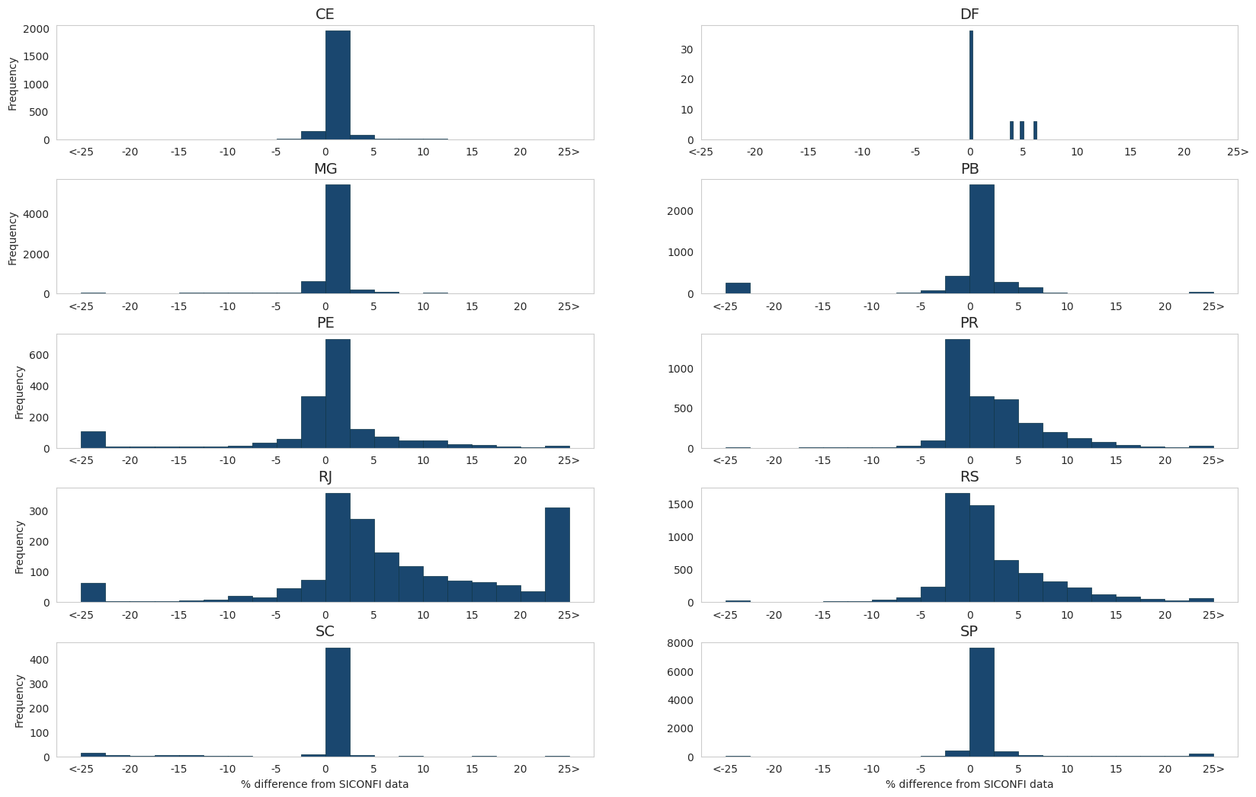
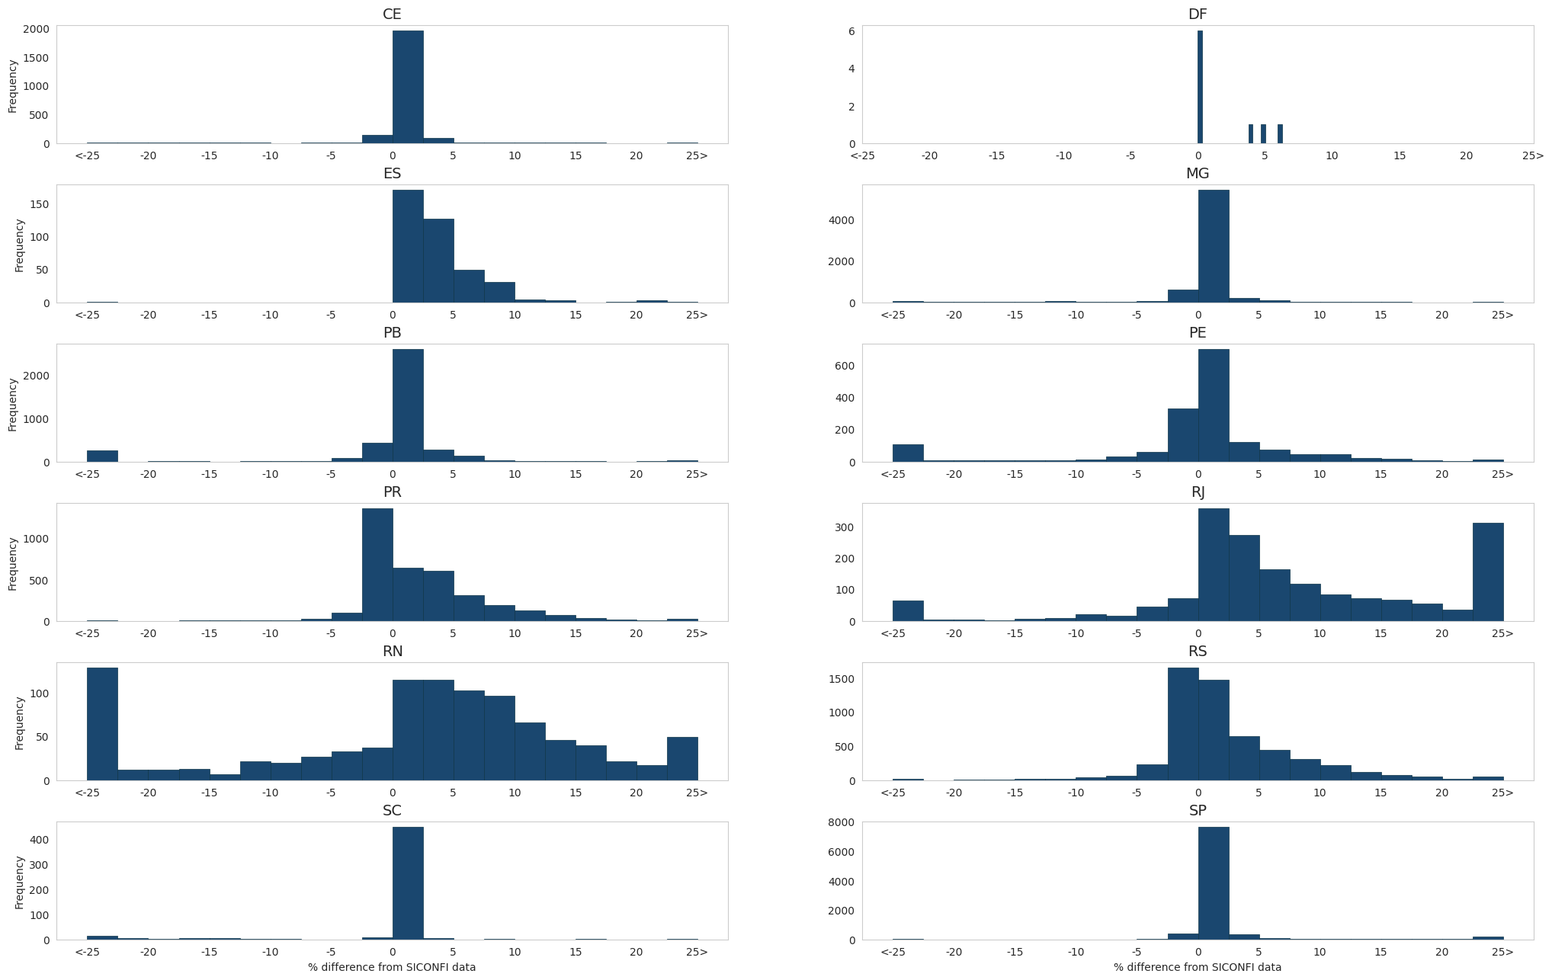
[update] original_source docs

diff --git a/site/index.html b/site/index.html
@@ -321,6 +321,24 @@
 </li>
       
         <li class="md-nav__item">
+  <a href="#temporal-coverage" class="md-nav__link">
+    <span class="md-ellipsis">
+      Temporal coverage
+    </span>
+  </a>
+  
+</li>
+      
+        <li class="md-nav__item">
+  <a href="#institutional-context" class="md-nav__link">
+    <span class="md-ellipsis">
+      Institutional context
+    </span>
+  </a>
+  
+</li>
+      
+        <li class="md-nav__item">
   <a href="#acessing-database" class="md-nav__link">
     <span class="md-ellipsis">
       Acessing database
@@ -510,6 +528,24 @@
 </li>
       
         <li class="md-nav__item">
+  <a href="#temporal-coverage" class="md-nav__link">
+    <span class="md-ellipsis">
+      Temporal coverage
+    </span>
+  </a>
+  
+</li>
+      
+        <li class="md-nav__item">
+  <a href="#institutional-context" class="md-nav__link">
+    <span class="md-ellipsis">
+      Institutional context
+    </span>
+  </a>
+  
+</li>
+      
+        <li class="md-nav__item">
   <a href="#acessing-database" class="md-nav__link">
     <span class="md-ellipsis">
       Acessing database
@@ -535,8 +571,9 @@
 
 <h1 id="mides-new-data-and-facts-from-local-procurement-and-budget-execution-in-brazil"><strong>MiDES: New Data and Facts from Local Procurement and Budget Execution in Brazil</strong></h1>
 <h2 id="overview">Overview</h2>
-<p>The dataframe shows the full process of creation and understanding about our data. We collect from several Brazilian states data provided by State Audit Courts (<em>TCEs</em> in Portuguese) about budget execution and procurements. Initially, we show this enforcement in <a href="https://documents.worldbank.org/en/publication/documents-reports/documentdetail/099456511072320917/idu0577a4ea10ff8504db6089400548fa91b30a3">working paper</a> published by the World Bank with seven states. Here, we publish updates about our dataset with more States. We provide the original source, processing codes, queries, and other analyses.</p>
-<p>Our dataset on municipal procurement and budget execution currently covers ten of Brazil's twenty-seven states, highlighted in Figure 1: Ceará (CE), Distrito Federal (DF), Minas Gerais (MG), Paraíba (PB), Pernambuco (PE), Paraná (PR), Rio de Janeiro (RJ), Rio Grande do Sul (RS), Santa Catarina (SC)and São Paulo (SP). These are large states that cover a substantial share of the total number of municipalities (60%), population (67%), and GDP (76%) of the country according to 2021 data. Notably, our dataset only covers states in the South, Southeast and Northeast regions - data from the states in the North and Center-West regions are currently not available[^1].</p>
+<p>We introduce a new dataset on municipal public finance in Brazil called MiDES (<em>Microdados de Despesas de Entes Subnacionais</em>[^1]) that allows users to answer several fiscal questions. We collect, clean, and harmonize microdata on public procurement and budget execution that covers more than half of the total municipalities of Brazil and represents over 40\% of the country's population.  </p>
+<p>The repository shows the full process of creation and understanding about our data. We collect from several Brazilian states data provided by State Audit Courts (<em>TCEs</em> in Portuguese) about budget execution and procurements. Initially, we show this enforcement in <a href="https://documents.worldbank.org/en/publication/documents-reports/documentdetail/099456511072320917/idu0577a4ea10ff8504db6089400548fa91b30a3">working paper</a> published by the World Bank with seven states. Here, we publish updates about our dataset with more States. We provide the original source, processing codes, queries, and other analyses.</p>
+<p>Our dataset on municipal budget execution currently cover ten of Brazil's twenty-seven states, highlighted in Figure 1: Ceará (CE), Distrito Federal (DF), Minas Gerais (MG), Paraíba (PB), Pernambuco (PE), Paraná (PR), Rio de Janeiro (RJ), Rio Grande do Sul (RS), Santa Catarina (SC)and São Paulo (SP). These are large states that cover a substantial share of the total number of municipalities (60%), population (67%), and GDP (76%) of the country according to 2021 data. Notably, our dataset only covers states in the South, Southeast and Northeast regions - data from the states in the North and Center-West regions are currently not available[^2]. Our procurement dataset allows users to see information on specific tenders, such as the number, reserve price, and description of items being sold, the number of participants in competitive tenders, and the identity of participants and winning parties covering six states: CE, MG, PB, PE, PR and RS. On the budget execution side, the data includes information on each commitment, verification (an important step in the budget spending when buyers recognize that a good or service was delivered), and payments, again allowing users to see the identity of payees and the amount and dates of each step of the budget execution. In particular, we can compute the time to pay a particular transaction by using the time elapsed between the verification and payment stages.</p>
 <!-- Query Proportion
 WITH sample AS (
   SELECT
@@ -564,14 +601,160 @@ WHERE pop.ano = 2021 AND gdp.ano = 2021
  -->
 
 <p><img alt="Figure1" src="images/MapChart_Map.png" /></p>
-<p>We provide further details on the geographical and temporal coverage of the dataset in Table 1. Starting with geographical coverage, our budget execution tables (commitment, verification, and payment) are available for all ten states. The procurement data are less comprehensive: the dataset currently includes no procurement data for SP, and the data for PB and PE include information on tenders and participants, but not on the more disaggregated level of items. In terms of temporal coverage, most of our budget execution data starts in the early- to mid-2000s, with the exception of PE (2012), PR (2013), and MG (2014), and currently runs until 2021. Once again, data on procurement is less comprehensive and, with the exception of CE (2009-2021), starts in the mid-2010s.</p>
+<h2 id="temporal-coverage">Temporal coverage</h2>
+<p>We provide further details on the geographical and temporal coverage of the dataset in Table 1. Starting with geographical coverage, our budget execution tables (commitment, verification, and payment) are available for all ten states. The procurement data are less comprehensive: the dataset currently includes no procurement data for SP, and the data for PB and PE include information on tenders and participants, but not on the more disaggregated level of items. We are working currently in SC raw data. In terms of temporal coverage, most of our budget execution data starts in the early- to mid-2000s, with the exception of PE (2012), PR (2013), and MG (2014), and currently runs until 2021. Once again, data on procurement is less comprehensive and, with the exception of CE (2009-2021), starts in the mid-2010s.</p>
+<table>
+<thead>
+<tr>
+<th>State</th>
+<th># municipalities</th>
+<th>Commitment</th>
+<th>Verification</th>
+<th>Payments</th>
+<th>Temporal Coverage Budget Execution</th>
+<th>Tender</th>
+<th>Tender Item</th>
+<th>Tender Participants</th>
+<th>Temporal Coverage Procurement</th>
+</tr>
+</thead>
+<tbody>
+<tr>
+<td>CE</td>
+<td>184</td>
+<td>✓</td>
+<td>✓</td>
+<td>✓</td>
+<td>2009-2021</td>
+<td>✓</td>
+<td>✓</td>
+<td>✓</td>
+<td>2009-2021</td>
+</tr>
+<tr>
+<td>DF</td>
+<td>1</td>
+<td>✓</td>
+<td>✓</td>
+<td>✓</td>
+<td>2009-2023</td>
+<td></td>
+<td></td>
+<td></td>
+<td></td>
+</tr>
+<tr>
+<td>MG</td>
+<td>853</td>
+<td>✓</td>
+<td>✓</td>
+<td>✓</td>
+<td>2014-2021</td>
+<td>✓</td>
+<td>✓</td>
+<td>✓</td>
+<td>2014-2021</td>
+</tr>
+<tr>
+<td>PB</td>
+<td>223</td>
+<td>✓</td>
+<td>✓</td>
+<td>✓</td>
+<td>2014-2021</td>
+<td>✓</td>
+<td></td>
+<td>✓</td>
+<td>2014-2021</td>
+</tr>
+<tr>
+<td>PE</td>
+<td>185</td>
+<td>✓</td>
+<td>✓</td>
+<td>✓</td>
+<td>2012-2021</td>
+<td>✓</td>
+<td></td>
+<td>✓</td>
+<td>2012-2021</td>
+</tr>
+<tr>
+<td>PR</td>
+<td>399</td>
+<td>✓</td>
+<td>✓</td>
+<td>✓</td>
+<td>2013-2021</td>
+<td>✓</td>
+<td>✓</td>
+<td>✓</td>
+<td>2013-2021</td>
+</tr>
+<tr>
+<td>RJ</td>
+<td>92</td>
+<td>✓</td>
+<td>✓</td>
+<td>✓</td>
+<td>2002-2022</td>
+<td></td>
+<td></td>
+<td></td>
+<td></td>
+</tr>
+<tr>
+<td>RS</td>
+<td>497</td>
+<td>✓</td>
+<td>✓</td>
+<td>✓</td>
+<td>2016-2021</td>
+<td>✓</td>
+<td>✓</td>
+<td>✓</td>
+<td>2016-2021</td>
+</tr>
+<tr>
+<td>SC</td>
+<td>276</td>
+<td>✓</td>
+<td>✓</td>
+<td>✓</td>
+<td>2021-2024</td>
+<td></td>
+<td></td>
+<td></td>
+<td></td>
+</tr>
+<tr>
+<td>SP</td>
+<td>645</td>
+<td>✓</td>
+<td>✓</td>
+<td>✓</td>
+<td>2008-2021</td>
+<td></td>
+<td></td>
+<td></td>
+<td></td>
+</tr>
+</tbody>
+</table>
+<h2 id="institutional-context">Institutional context</h2>
+<p>The last decades have seen a remarkable expansion in the number of subnational units across the world and their roles in providing public services (Gadenne and Singhal, 2014; Grossman and Lewis, 2014; Dahis and Szerman, 2023). As their role in service provision increased, so did their economic relevance - in Brazil, municipal procurement was equivalent to approximately 3% of GDP between 2002 and 2019, or about 25%-30% of total purchases by all levels of government - federal, state, and municipal (Thorstensen and Giesteira, 2021). </p>
+<p>Data on local governments are often only available at an aggregate level, e.g. the total amount of purchases of goods and services, the total amount spent on health services, and the total amount of accrued liabilities. Consequently, many simple yet important questions related to the public finances of these units remain unanswered. Which are the suppliers of local governments, and what are their characteristics (e.g., size, location)? What is the share of purchases that happen through competitive tenders versus non-competitive methods? When competitive auctions take place, what is the degree of competition?</p>
+<p>Another crucial dimension of local governments' finances is how they execute their budgets. While aggregate commitment and spending amounts are easier to come by, we know little about the details of the budget execution. For instance, how long does it take to pay suppliers after deliveries are recognized? Is there a large variability in the payment timeliness across purchases within the same government? Do governments treat suppliers equally regarding payment timeliness? Answers to these questions can shed new light on the effectiveness of local governments and on their interaction with other economic agents. Similarly, when facing liquidity constraints, do governments prioritize the payment of some government functions at the expense of others? Payment delays impose several costs on suppliers and might affect the provision of public goods (Flynn and Pessoa, 2014). The importance of this issue is reflected in several recent regulations and initiatives that governments implemented in an attempt to shorten payment terms[^2]. Yet, the scarcity of granular data on the stages of the budget execution renders the answers to these questions elusive[^3].</p>
 <h2 id="acessing-database">Acessing database</h2>
 <p>The database is hosted in <a href="https://basedosdados.org/dataset/d3874769-bcbd-4ece-a38a-157ba1021514?table=14c5d05b-9830-4710-b7ac-7e0ca1bf9d8b">BasedosDados</a>. For access database in BigQuery, you can follow this <a href="https://basedosdados.github.io/mais/access_data_bq/">steps</a> to create a personal project and create your queries. The most simple query is</p>
 <p><div class="highlight"><pre><span></span><code><span class="k">SELECT</span><span class="w"> </span><span class="o">*</span><span class="w"> </span><span class="k">FROM</span><span class="w"> </span><span class="o">`</span><span class="n">basedosdados</span><span class="p">.</span><span class="n">world_wb_mides</span><span class="p">.</span><span class="n">empenho</span><span class="o">`</span><span class="w"> </span><span class="k">LIMIT</span><span class="w"> </span><span class="mi">100</span>
 </code></pre></div>
 The output is a hundred observations about commitments.</p>
-<p><Footnotes>
-[^1]: Municipalities that are in our sample are slightly richer and more educated than those that are not. In 2019, the average GDP per capita (literacy rate) in our sample was 26.8 thousand BRL (87.7\%), while in the municipalities that are not in our sample it was 22 thousand BRL (82.5\%). Population size, however, does not differ across the samples (37.7 thousand inhabitants in both)</p>
+<p><Footnotes></p>
+<p>[^1]: The English translation of <em>Microdados de Despesas de Entes Subnacionais</em> is Subnational Entities' Expenditure Microdata.</p>
+<p>[^1]: Municipalities that are in our sample are slightly richer and more educated than those that are not. In 2019, the average GDP per capita (literacy rate) in our sample was 26.8 thousand BRL (87.7\%), while in the municipalities that are not in our sample it was 22 thousand BRL (82.5\%). Population size, however, does not differ across the samples (37.7 thousand inhabitants in both)</p>
+<p>[^2]: Examples include the QuickPay initiative, launched in 2011 in the United States; Regulation 113 of the Public Contracts Regulations, passed in 2015 in the United Kingdom; and the introduction of the Centralized Payment Platform (PPC) in 2020 in Chile.</p>
+<p>[^3]: According to Potter et al. (1999): "For the fiscal economist seeking to monitor budget execution, choosing which stage(s) of the expenditure management procedure to monitor is often constrained by information availability. In principle, the data given at the verification stage may be particularly relevant because they measure the actual liability of the public entity and thus the accrued account liability. For example, if bills are verified promptly when they arrive, it allows a good measure of the potential arrears, where strict cash limits constrain the amounts available to make payments. But such information is rarely available."</p>
 
 
 

diff --git a/site/budget_execution/index.html b/site/budget_execution/index.html
@@ -576,7 +576,7 @@
 <p>In the <em>verification</em> table, observations are verifications by some agency in a given municipality, which are always linked to a specific commitment. The key information available for each verification is the date when they happen, the initial value verified, any adjustments to the original value and the final value. One commitment might generate one or more verifications, so each verification is uniquely identified by the variable $id_liquidacao_bd$ and can be connected to commitments by the variable $id_empenho_bd$.</p>
 <p>Finally, for the <em>payment</em> table, each observation is a payment made to a specific entity. Payments can often (but not always) be linked back to a specific verification. The key information available in the payments table is the date of payment and values. The dataset also includes variables with the names and "document number" of payees - these are often unique national identifiers for individuals (CPF) and firms (CNPJ) but are not available for all payments or municipalities. Again, one verification event can lead to one or multiple payments, so payments are uniquely identified by the variable $id_pagamento_bd$ and can be linked back to verification events by $id_liquidacao_bd$ and to commitments by $id_empenho_bd$.</p>
 <h3 id="descriptive-statistics">Descriptive statistics</h3>
-<p>Statistics for the budget execution dataset are presented in \autoref{tab:descriptive_budget}. Our budget execution dataset includes over 880 million observations - over 250 million commitments, around 300 million verifications and over 300 million payments. For all three stages of the budget execution, we present the total number of observations and the total number of <em>distinct</em> events - in some cases, we are unable to assess whether two commitment observations, for example, refer to the same commitment or not. In those cases, we set our respective identifier variable to missing to flag to users that we are unsure whether these are unique events that can be tracked across datasets. Using the budget classification discussed previously, we estimate that between 25%-35% of total budget commitment events are related to the procurement of goods and materials - this is a sample we exploit in more detail in the coming Sections. We also show that for an overwhelming proportion of commitments values are non-zero and can be matched to some verification and payment - allowing us to track the entire cycle of budget execution. We also highlight that our dataset currently encompasses over 3.5 trillion BRL in payments (in 2021 prices) or the equivalent of 38% of GDP in 2021, made to over 9 million different unique agents (identified by national tax IDs).</p>
+<p>Statistics for the budget execution dataset are presented in Tabela 1. Our budget execution dataset includes over 880 million observations - over 250 million commitments, around 300 million verifications and over 300 million payments. For all three stages of the budget execution, we present the total number of observations and the total number of <em>distinct</em> events - in some cases, we are unable to assess whether two commitment observations, for example, refer to the same commitment or not. In those cases, we set our respective identifier variable to missing to flag to users that we are unsure whether these are unique events that can be tracked across datasets. Using the budget classification discussed previously, we estimate that between 25%-35% of total budget commitment events are related to the procurement of goods and materials - this is a sample we exploit in more detail in the coming Sections. We also show that for an overwhelming proportion of commitments values are non-zero and can be matched to some verification and payment - allowing us to track the entire cycle of budget execution. We also highlight that our dataset currently encompasses over 3.5 trillion BRL in payments (in 2021 prices) or the equivalent of 38% of GDP in 2021, made to over 9 million different unique agents (identified by national tax IDs).</p>
 <table>
 <thead>
 <tr>

diff --git a/docs/original_source.md b/docs/original_source.md
@@ -1,0 +1,82 @@
+# Original Sources
+
+This documentation contains information about the main files and sources used in the construction of public procurement and budget execution tables. Additionally, we list open questions and limitations encountered throughout the project by state.
+
+
+## DF - Distrito Federal
+![TCE-DF](images/original_source_df.png)
+Available in https://www.transparencia.df.gov.br/#/downloads#des from 2009. The State Court offers the data for download in the click-point model. In addition, offering a visualization panel with the main results of expenses and revenues in the municipality of Brasília. 
+
+We don't have **bid** data yet. The **commitment** table is the result of files: *Despesa_Empenho*, *Despesa_Empenho_Descricao*, and *Despesa_Empenho_Subelement* which together classify completely the observation. As the files *Despesa_Nota_Lancamento_Evento* and *Despesa_Nota_Lancamento_x_Nota_Empenho* show the required information about **verification**. This last file contains the identification between commitment and verification observations. The payment table is based on *Despesa_Pagamento*. Some observations are broken because of the original data format. 
+
+## CE - Ceará
+![TCE-CE](images/original_source_ce.png)
+Available in https://api.tce.ce.gov.br/ from 2009. The State Court offers an API to get the data. 
+
+The **bid** from files (*licitacoes*) bring together general information about competitive bids and exemptions/non-enforceability. For the **bid-iten** table we merge *itens_licitacoes* and *licitantes* files. The first contains information about the bid items and the second about the winners. For the **bid-participant** we remove duplicates at the id, municipality and year level, e.g., participants who win more than one item in the same bid. The construction of `id_licitacao_bd` not generate unique id (around 0.87% are duplicated) analyzing the relevant variables as municipality, entity, year. For example, we have a bid with same number, description and values (described better [here](https://municipios-transparencia.tce.ce.gov.br/index.php/municipios/licitacoes/mun/031/versao/2019)), but directioned to different entities:  
+FMS04.03.002/19  
+PMB04.03.002/19  
+FMA04.03.002/19  
+FME04.03.002/19
+These cases give reasons to believe that we have the same bid, altought we exclude here the observations duplicated. 
+
+In **commitment** table we use *notas_empenhos* and *anulacoes_empenho*, while **verification** is based in *liquidacoes* and *estornos_liquidacoes*, as **payment** table is from *notas_pagamentos* and *estornos_pagamentos*. All this observations is identified by a commitment number not unique. We create *id_empenho_bd* concatenating some variables as municipality, year and entity ensuring the uniqueness of observations. 
+
+## MG - Minas Gerais
+![TCE-MG](images/original_source_mg.png)
+Available in https://dadosabertos.tce.mg.gov.br/ from 2014. The State Court offers download data by municipality or all files by year and theme. The files are disagregated but the conecction is made by an id created by own State Court. Some municipalities seems to have incomplete data for recent years with discrepancies in values and total of observations.
+
+In the file *licitacao.licitacao* we have all competitive bids and the file *licitacao.dispensa* all observations of exemption or ineligibility. In the files *licitacao.recLicitacao* and *licitacao.recDispensa* we obtained the bid estimated value. If we aggregate by bid the total value we obtain the homologated value through the files *licitacao.homologLicitacao* and *licitacao.fornDispensa*.  To compose **bid-item** table we use *licitacao.itemLicitacao*, *licitacao.cotacaoLicitacao*, *licitacao.refLicitacao*, *licitacao.homologLicitacao*, *licitacao.itemDispensa*, *licitacao.cotDispensa*, and *licitacao.fornDispensa*. We merge these files to obtain your respective quotations or reference prices. We also include the winners, quantities and the values. For the **bid-participant** we have all qualified participants by bidding in *licitacao.habLicitacao*. We can find out which of these are winners by merging with the item bidding table. We detected inconsistencies between ‘total_value’ and ‘budget_value with more details [here](https://docs.google.com/document/d/1jcNyUQOOXfAKCQmjQD4eIUIx5gqVdqf3Re7o8KioaK0/edit?usp=sharing). The original data has 1.2M observations, but using document and company name there are only 330,747 unique participants. Some participants appear more than 3,000 times on the base. Examples: BIOHOSP PRODUTOS HOSPITALARES LTDA, ALFALAGOS LTDA. Some observations we construct an identification about participant type (CPF or CNPJ) due to a discrepancy in the total number of digits. 
+
+For the budget execution part we join the *despesa* files trough the variable *seq_empenho*. The files with *rsp* in the name shows verifications and payments from another periods that are verified or paid the sequence. Every observation has a sequence that makes that observation unique. For the sake of caution, we still created the id_bd variable
+
+## MS - Mato Grosso do Sul
+In contact with [TCE-MS](https://www.tce.ms.gov.br/ouvidoria/manifestacoes/nova/3) through Access Information Law under protocol 2207437, it did not provide information that could satisfy the request about municipalities budget execution.
+
+## PB - Paraíba
+![TCE-PB](images/original_source_pb.png)
+Available in https://dados.tce.pb.gov.br from 2008, the TCE-PB offers data in an unique file in .txt format. 
+
+To build the **bid** table at the bidding level exclusively, we exclude variables related to participants and also duplicate rows in the set municipality, entity and year, keeping only information about bids. The same file provided for the bid table (*Licitacoes_Propostas*), contains the information to generate the **bid-participant** table as participants and proposals information. However, there is no data to feed the **bid-item** table.
+
+From the files *TCE-PB-SAGRES-Empenhos_Esfera_Municipal* and *TCE-PB-SAGRES-Estornos_Esfera_Municipal* they form the **commitment** table. The reversal is only recorded in this table, since the moment of the reversal cannot be identified and in the other tables there is no guaranteed uniqueness of the observation.The files of **verification** and **payment** generate from *TCE-PB-SAGRES-Liquidacoes_Esfera_Municipal* and *TCE-PB-SAGRES-Pagamentos_Esfera_Municipal*, respectively. In the payment table there is no information regarding the verification number, therefore the variable `id_liquidacao_bd` cannot be recreated in payment table, therefore it is not created in verification table.
+
+## PE - Pernambuco
+![TCE-PE](images/original_source_pe.png)
+Available in https://sistemas.tce.pe.gov.br/DadosAbertos/Exemplo!listar from 2013. The State Court offers an API to get the data. 
+
+## PI - Piauí
+In contact with [TCE-PI](https://www.tcepi.tc.br/) through Access Information Law under protocol 0325/2024, it did not provide information that could satisfy the request about municipalities budget execution.
+
+## PR - Paraná
+![TCE-PR](images/original_source_pr.png)
+Available in https://servicos.tce.pr.gov.br/TCEPR/Tribunal/Relacon/Dados/DadosConsulta/Consolidado from 2013, the TCE-PR offers data in .xml format. 
+
+
+## RJ - Rio de Janeiro
+![TCE-RJ_State](images/original_source_rj1.png)
+
+![TCE-RJ_Municipality](images/original_source_rj2.png)
+
+
+## RS - Rio Grande do Sul
+![TCE-RS](images/original_source_rs.png)
+
+
+## SC - Santa Catarina
+![TCE-SC](images/original_source_sc1.png)
+Licitação
+
+![TCE-SC](images/original_source_sc2.png)
+Execução Orçamentária
+
+## SP - São Paulo
+![TCE-SP](images/original_source_sp1.png)
+
+
+
+![TCM-SP](images/original_source_sp2.png)
+
+
+## TO - Tocantins
+In contact with [TCE-TO](https://tceto.omd.com.br/ouvidoria/externo/consulta.do) through Access Information Law under protocol 249.184.261.992, it did not provide information that could satisfy the request about municipalities budget execution.
